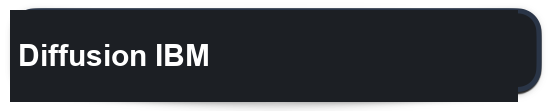
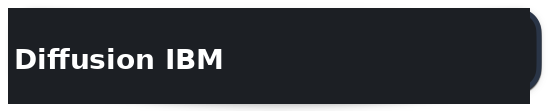
Fix tous les chevauchements labels

Changed region(s): [[0.0, 0.0541, 0.9767, 0.9459]]

diff --git a/contact-studio.html b/contact-studio.html
@@ -391,14 +391,14 @@
                     </div>
                 </div>
                 <div class="inline-row">
-                    <div class="picto-label-wrap" style="height:32px;"><img src="images/img_09_e4276c0082.png" alt="" style="height:100%;"><span>Je fournis mon g&eacute;n&eacute;rique</span></div>
+                    <img src="images/img_09c_fournis_gen.png" alt="" class="label-img" style="height:32px;">
                     <div class="toggle-group">
                         <span class="toggle-label">Oui</span><div class="toggle-btn active" data-field="fournisGen" data-val="oui" onclick="toggle(this)"></div>
                         <span class="toggle-label">Non</span><div class="toggle-btn" data-field="fournisGen" data-val="non" onclick="toggle(this)"></div>
                     </div>
                 </div>
                 <div class="inline-row">
-                    <div class="picto-label-wrap" style="height:32px;"><img src="images/img_09_e4276c0082.png" alt="" style="height:100%;"><span>Le studio fournit le g&eacute;n&eacute;rique</span></div>
+                    <img src="images/img_09d_studio_gen.png" alt="" class="label-img" style="height:32px;">
                     <div class="toggle-group">
                         <span class="toggle-label">Oui</span><div class="toggle-btn" data-field="studioGen" data-val="oui" onclick="toggle(this)"></div>
                         <span class="toggle-label">Non</span><div class="toggle-btn active" data-field="studioGen" data-val="non" onclick="toggle(this)"></div>
@@ -435,10 +435,7 @@
         <!-- VISITE + MODE - FIXED -->
         <div class="section">
             <div class="form-row" style="justify-content:center;">
-                <div class="picto-label-wrap" style="height:36px;">
-                    <img src="images/img_10_90ed541f1d.png" alt="" style="height:100%;">
-                    <span>Visite du studio</span>
-                </div>
+                <img src="images/img_10b_visite_studio.png" alt="" class="label-img" style="height:36px;">
                 <div class="toggle-group">
                     <span class="toggle-label">Oui</span><div class="toggle-btn active" data-field="visite" data-val="oui" onclick="toggle(this)"></div>
                     <span class="toggle-label">Non</span><div class="toggle-btn" data-field="visite" data-val="non" onclick="toggle(this)"></div>
